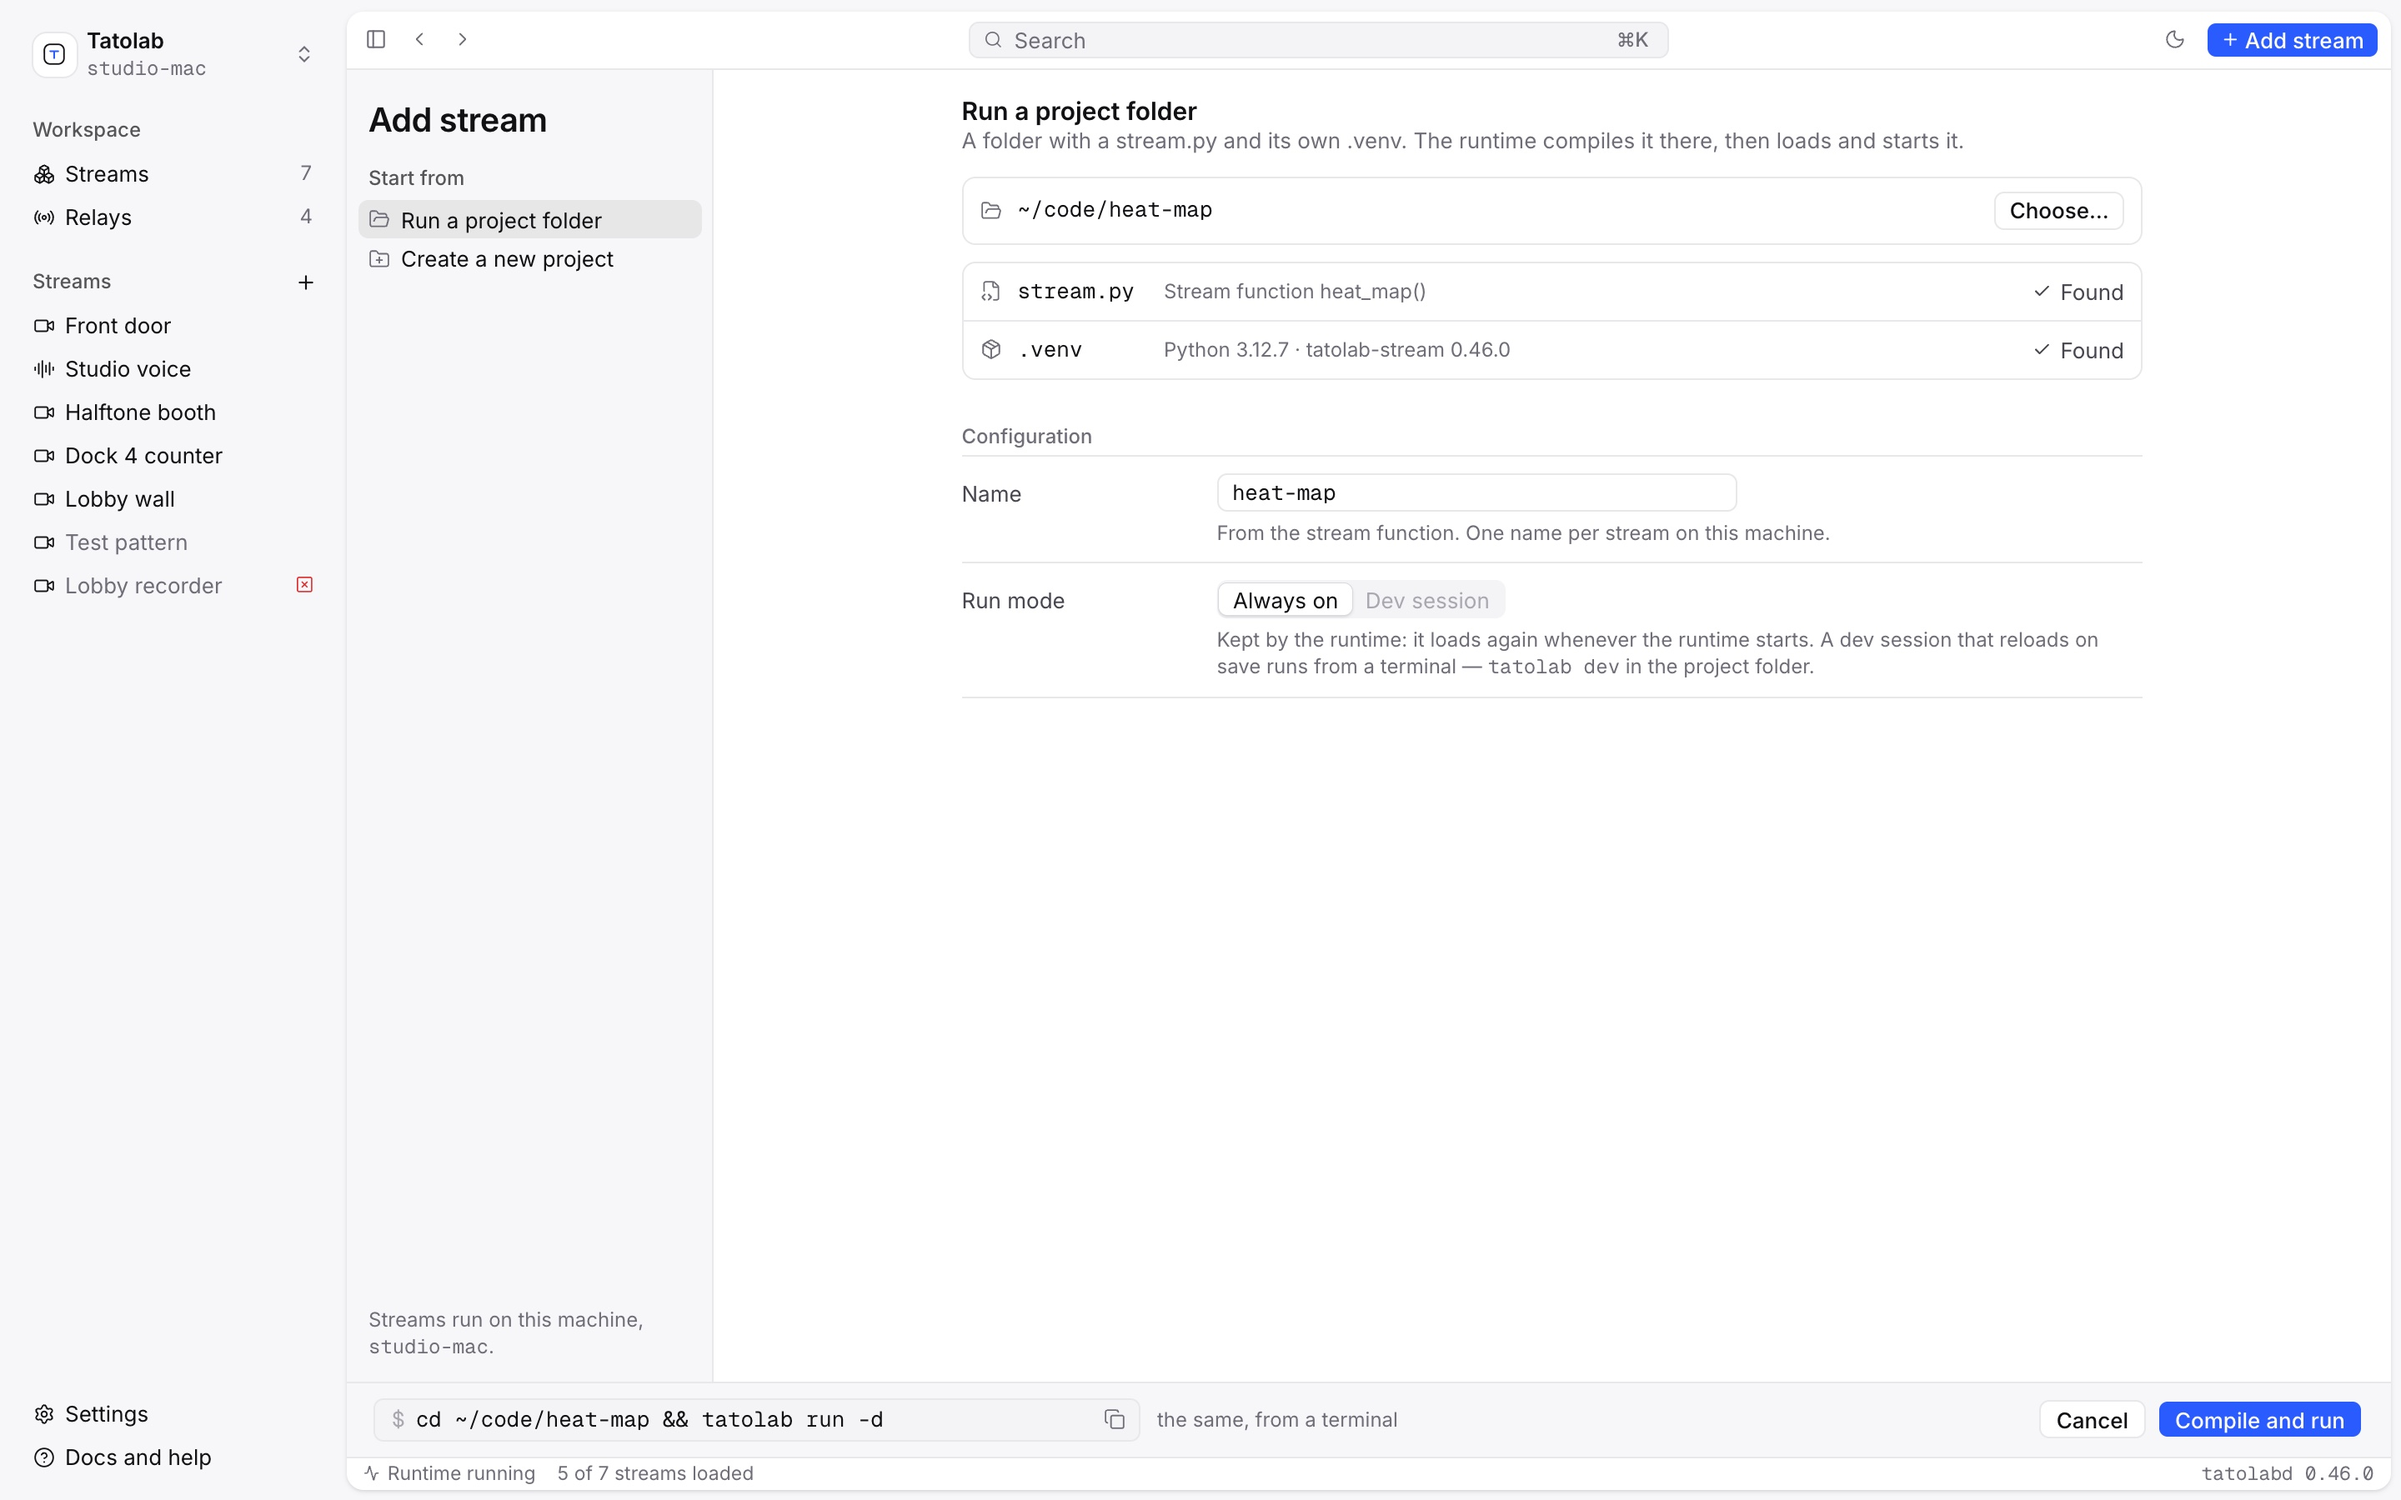
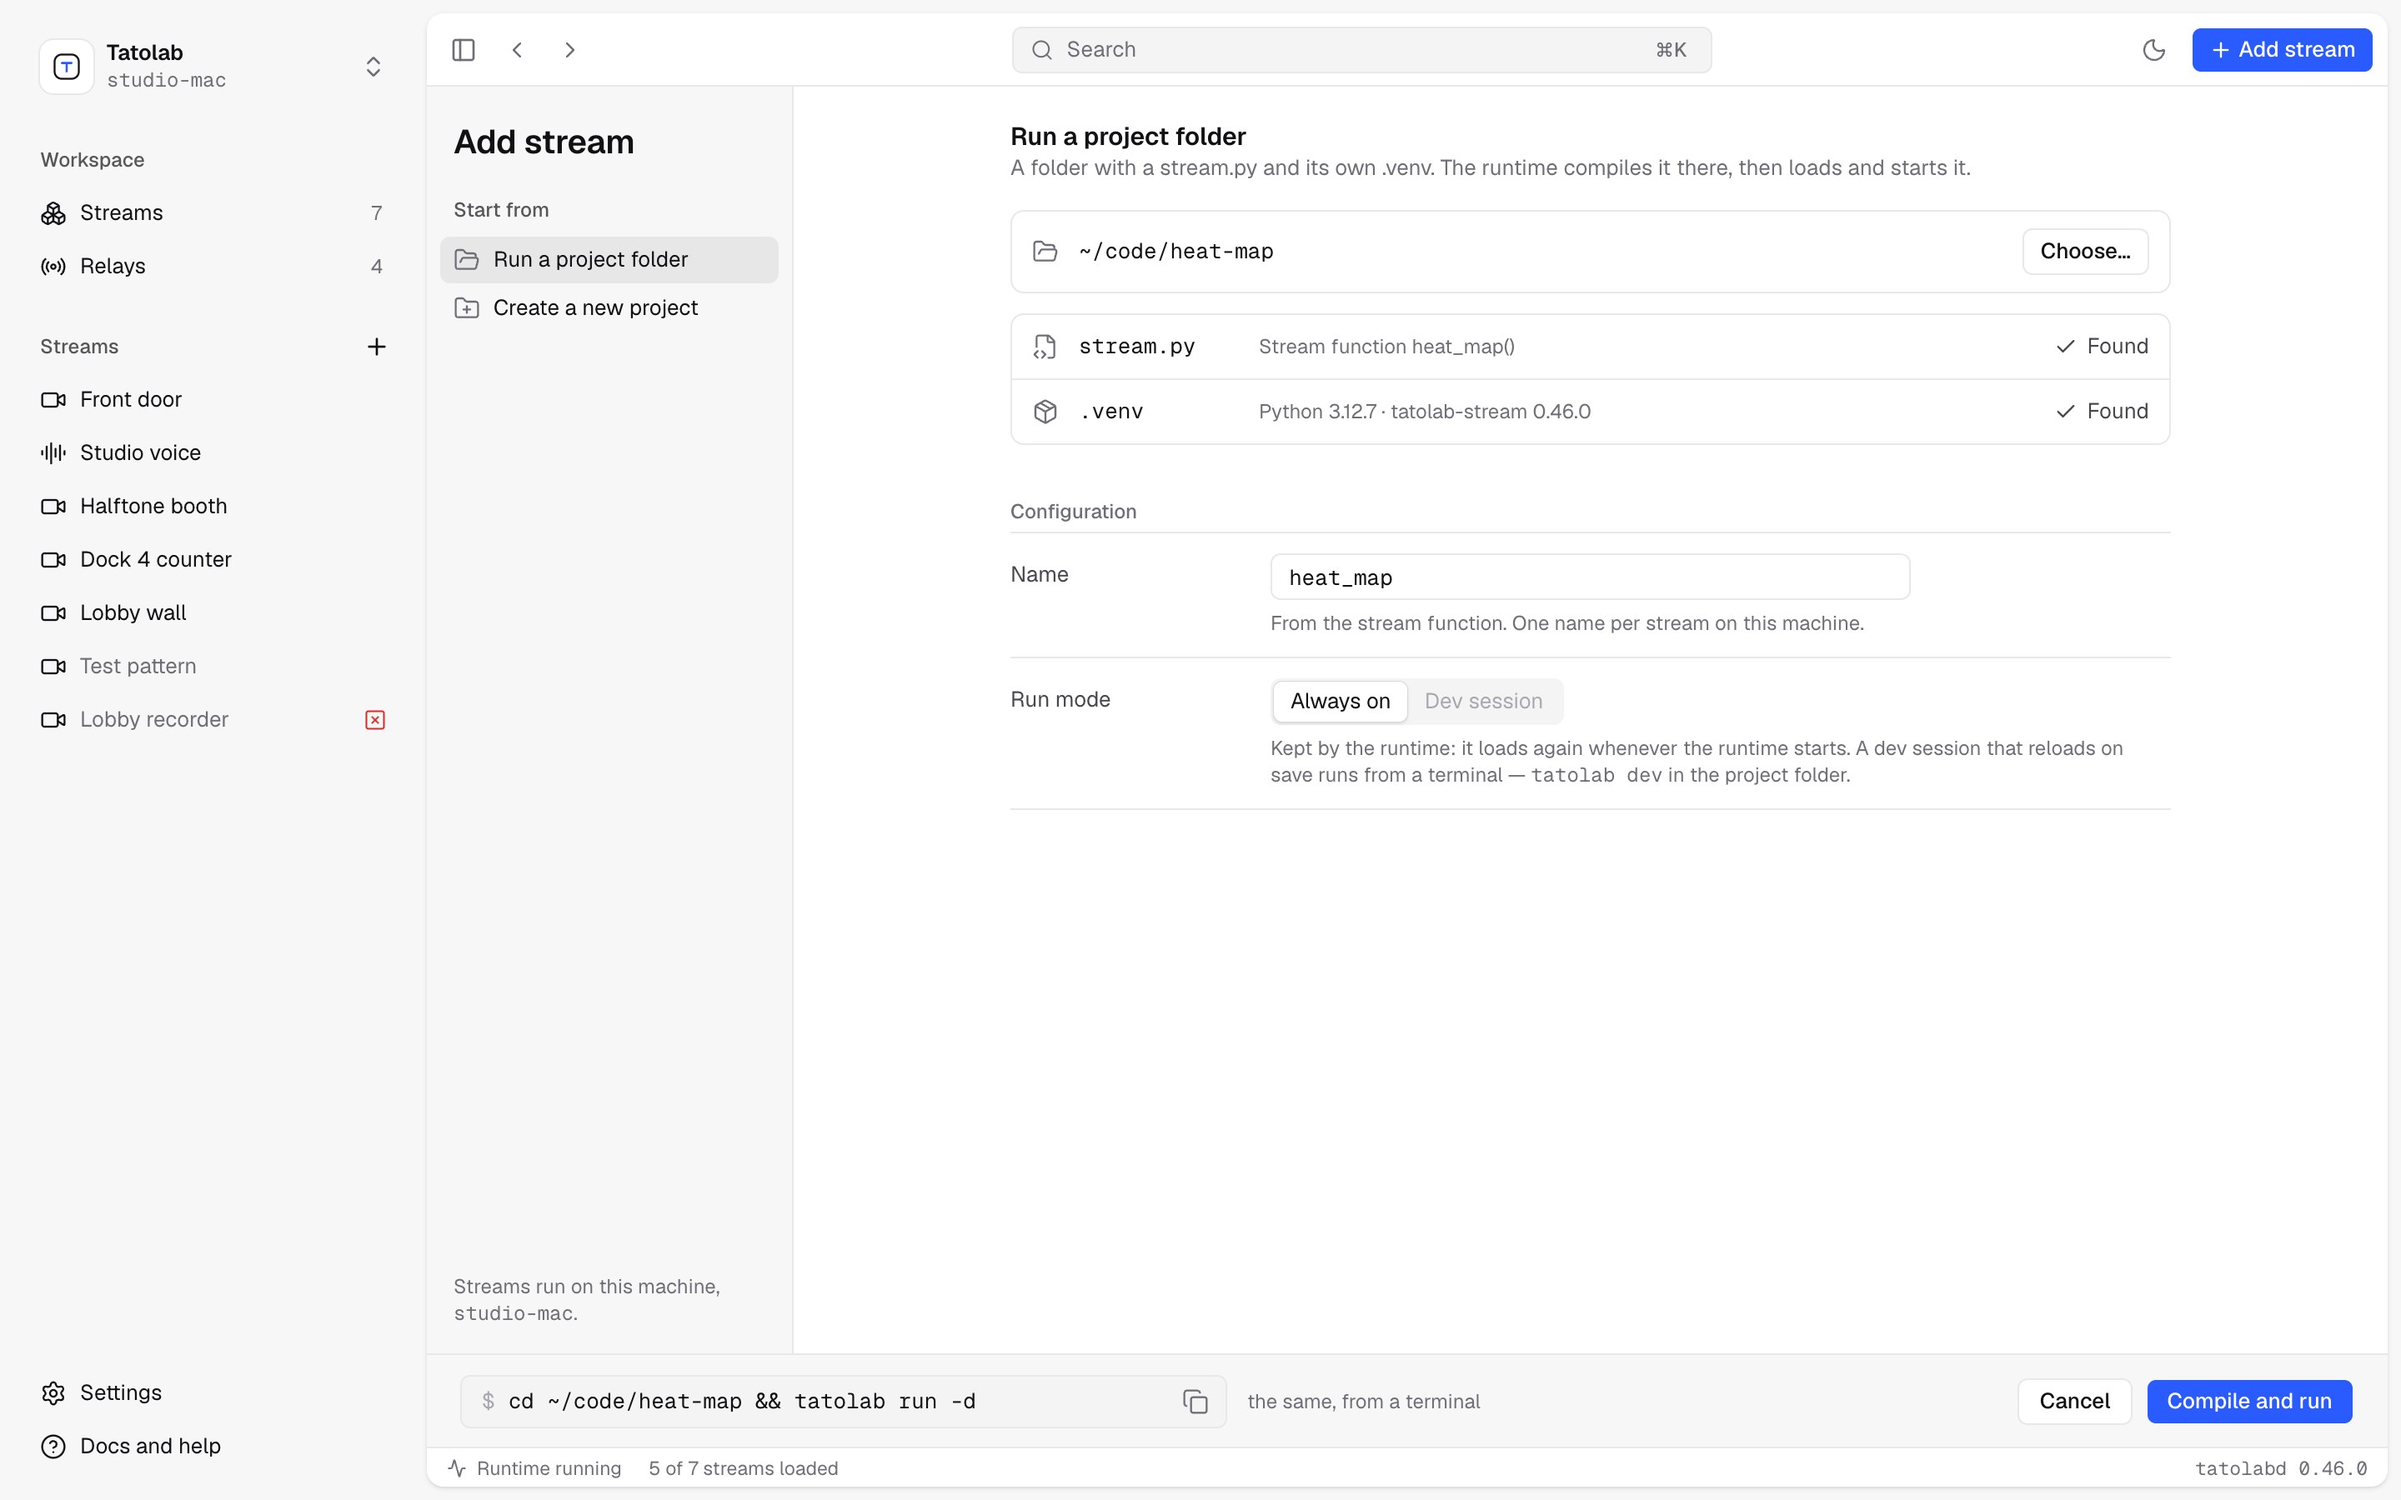
docs(design): the Add stream frames name the stream heat_map, as the runtime does
The prototype prefilled the stream's name with its function's underscores
turned into hyphens; the runtime names a stream after its function as
written. Owner's decision 4 on #40 keeps the runtime's spelling, so the
prototype prefills heat_map and the today/new, new-compiling and new-done
frames (and the @2x copies) are re-rendered. The name-in-use frame keeps
front-door as a name typed over the prefill.

diff --git a/docs/design/src/today/pages/TodayNewStream.tsx b/docs/design/src/today/pages/TodayNewStream.tsx
@@ -78,8 +78,10 @@ export default function TodayNewStream() {
 
   const folder = conflict ? "~/code/front-door-v2" : "~/code/heat-map"
   const streamFunction = conflict ? "front_door" : "heat_map"
-  const [name, setName] = useState(streamFunction.replace(/_/g, "-"))
-  useEffect(() => setName(streamFunction.replace(/_/g, "-")), [streamFunction])
+  // The runtime names a stream after its function, underscores kept; the conflict frame shows a name typed over it.
+  const initialName = conflict ? "front-door" : streamFunction
+  const [name, setName] = useState(initialName)
+  useEffect(() => setName(initialName), [initialName])
   const heldBy = todayStreams.find((s) => s.id === name)?.project
 
   const [directory, setDirectory] = useState("~/streams/hello")
